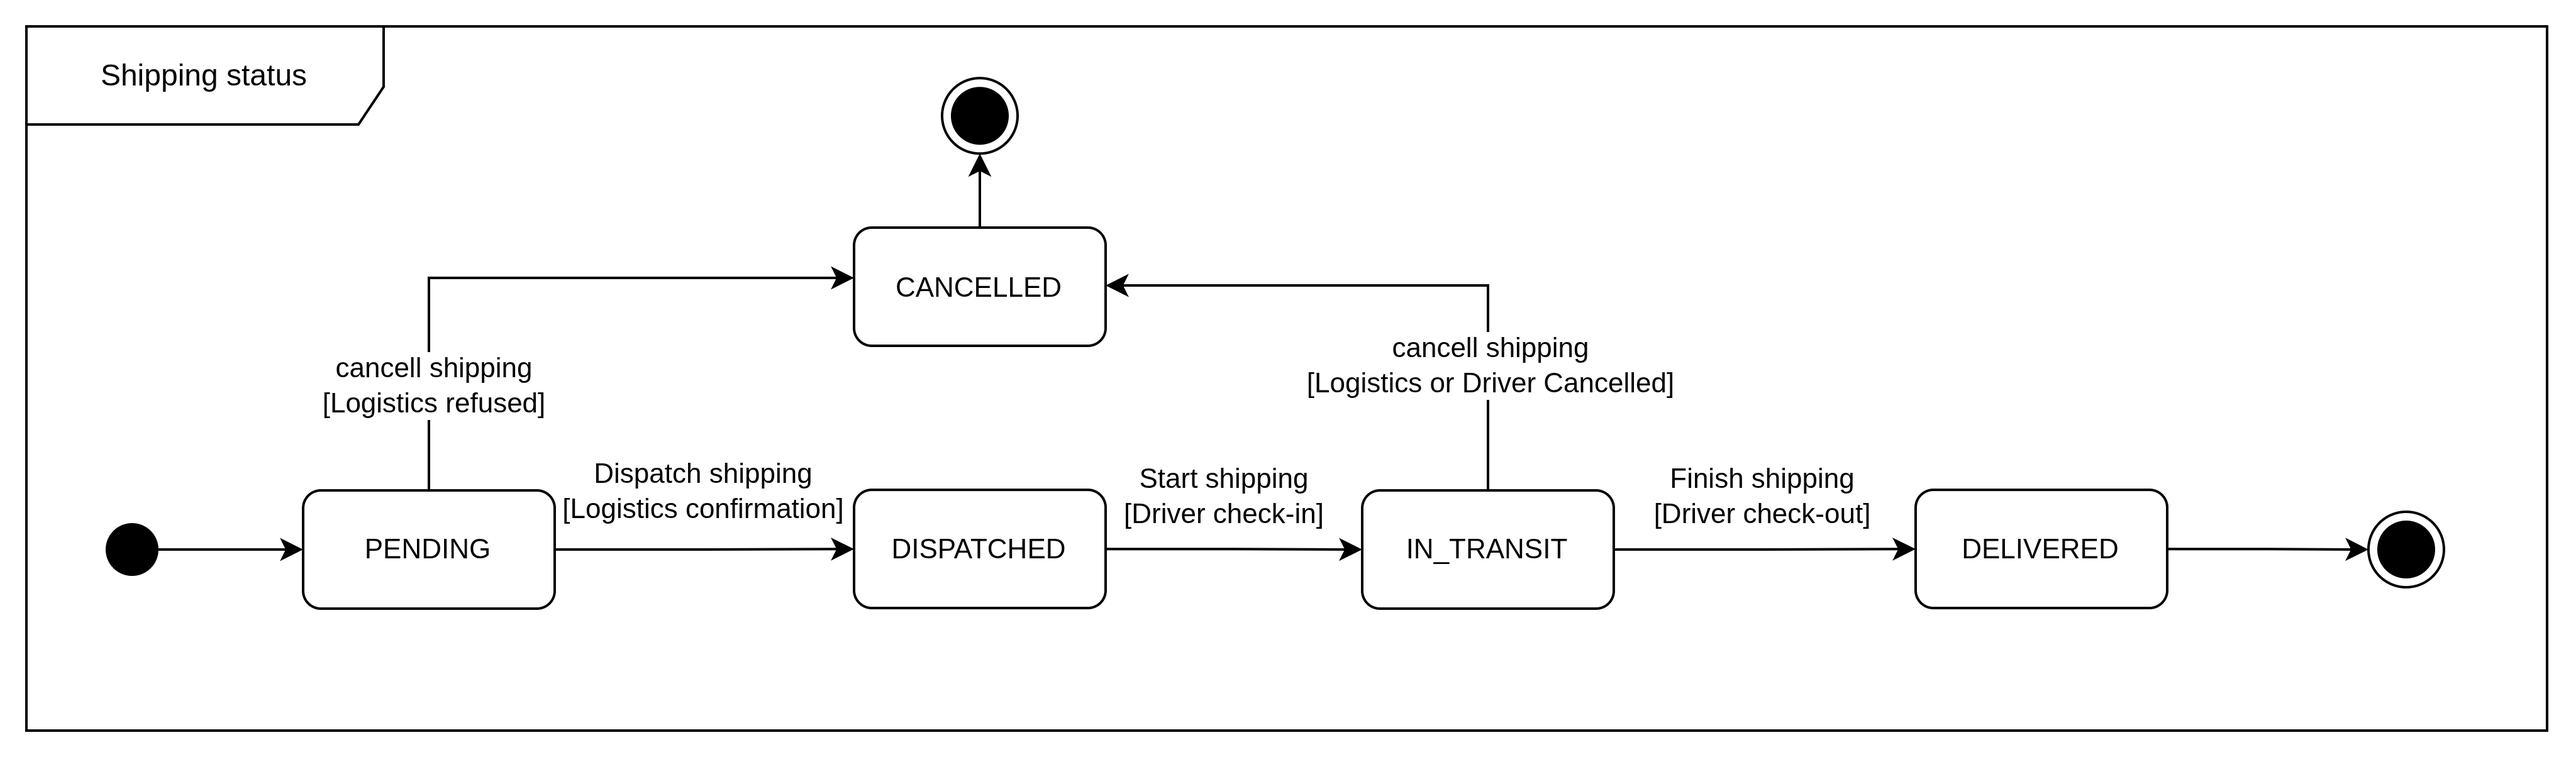
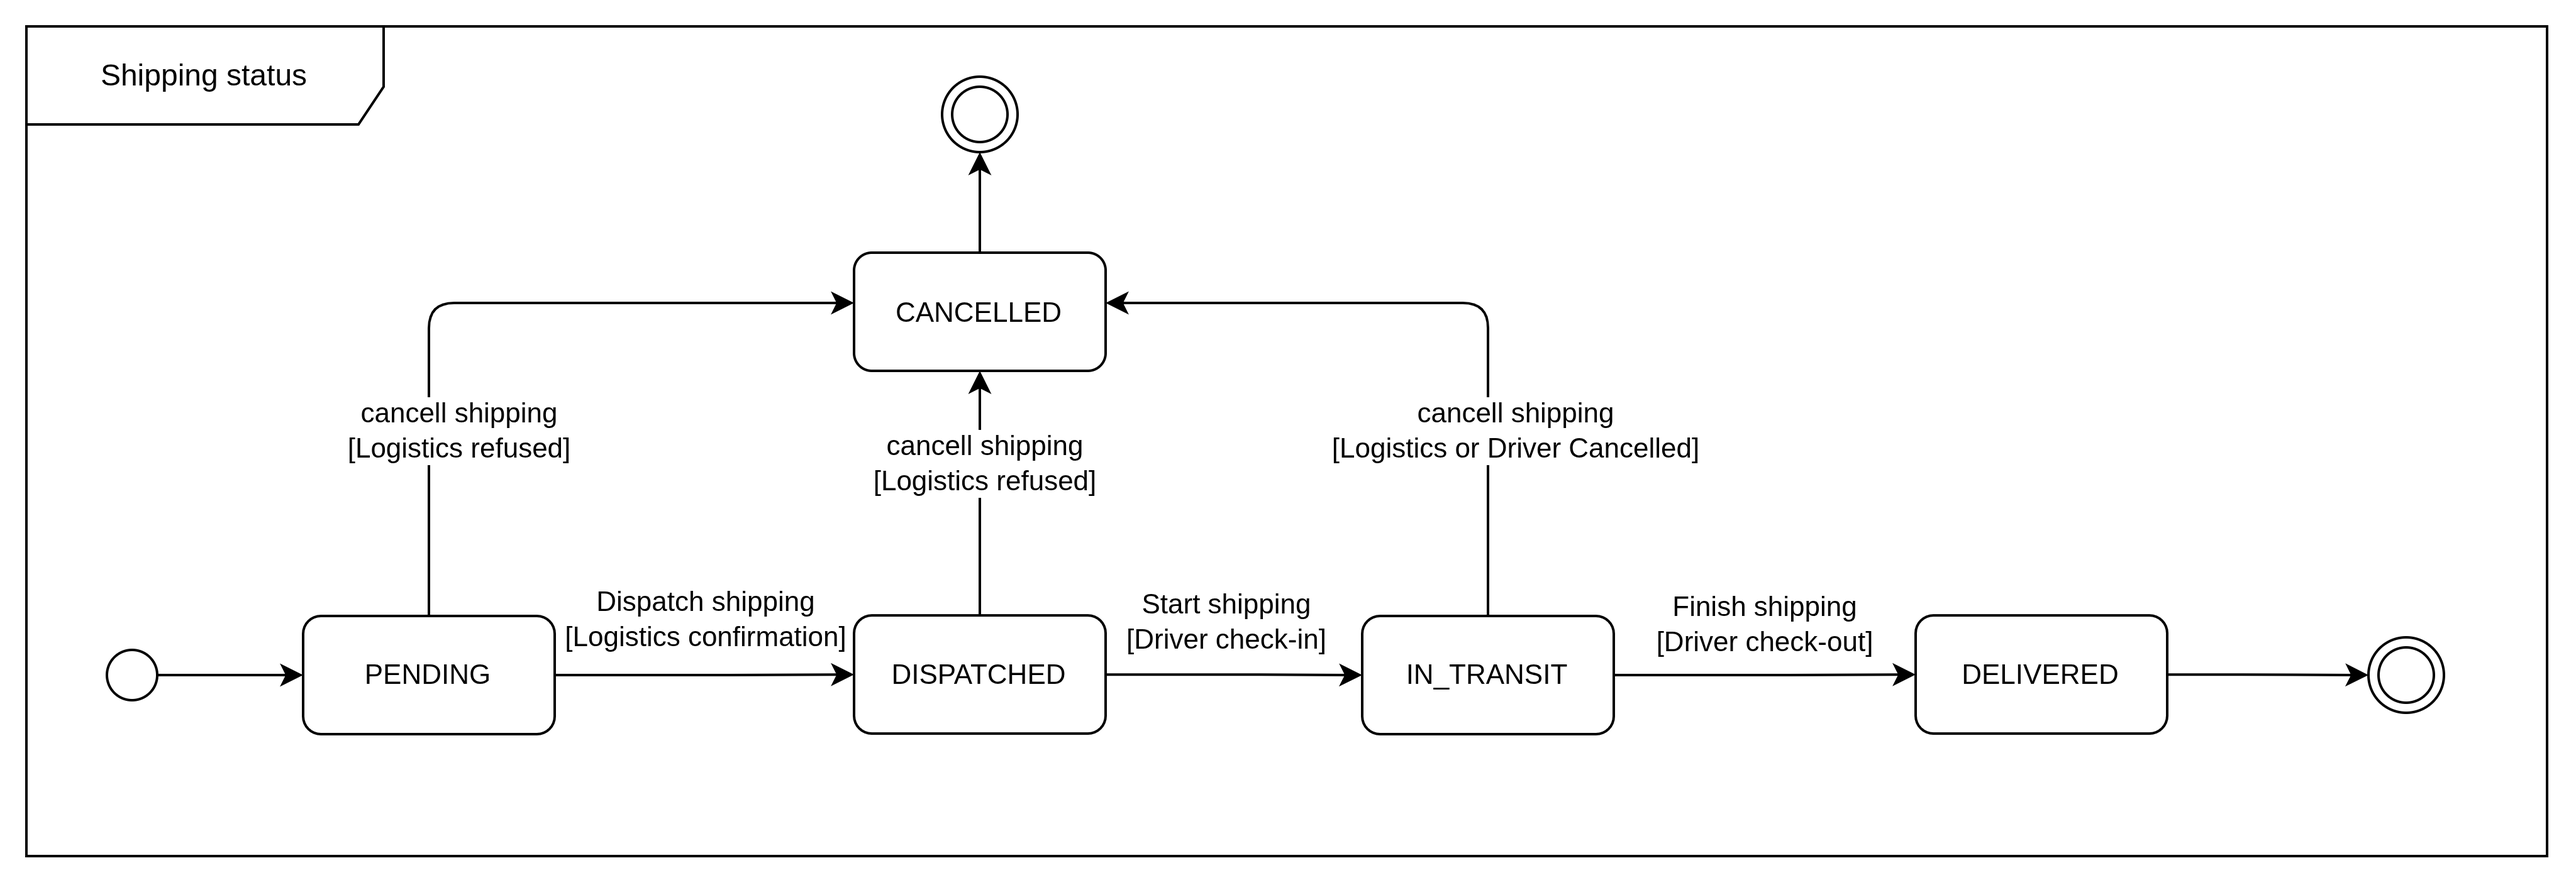
docs(order): update README

diff --git a/microservice-order/README.md b/microservice-order/README.md
@@ -59,7 +59,13 @@ Microservice to handle order flow and shipping logistics operations.
 
 ## Order Status
 
+Either order and shipping status can be modeled with the State-Machine Pattern, as seen below.
+
+![sales_order_status_graph.png](../images/uml/sales_order_status_graph.png)
+
 ![Sales Order Status](../images/uml/sales_order_status.png)
+
+![shipping_status_graph.png](../images/uml/shipping_status_graph.png)
 
 ![Shipping Status](../images/uml/shipping_status.png)
 
